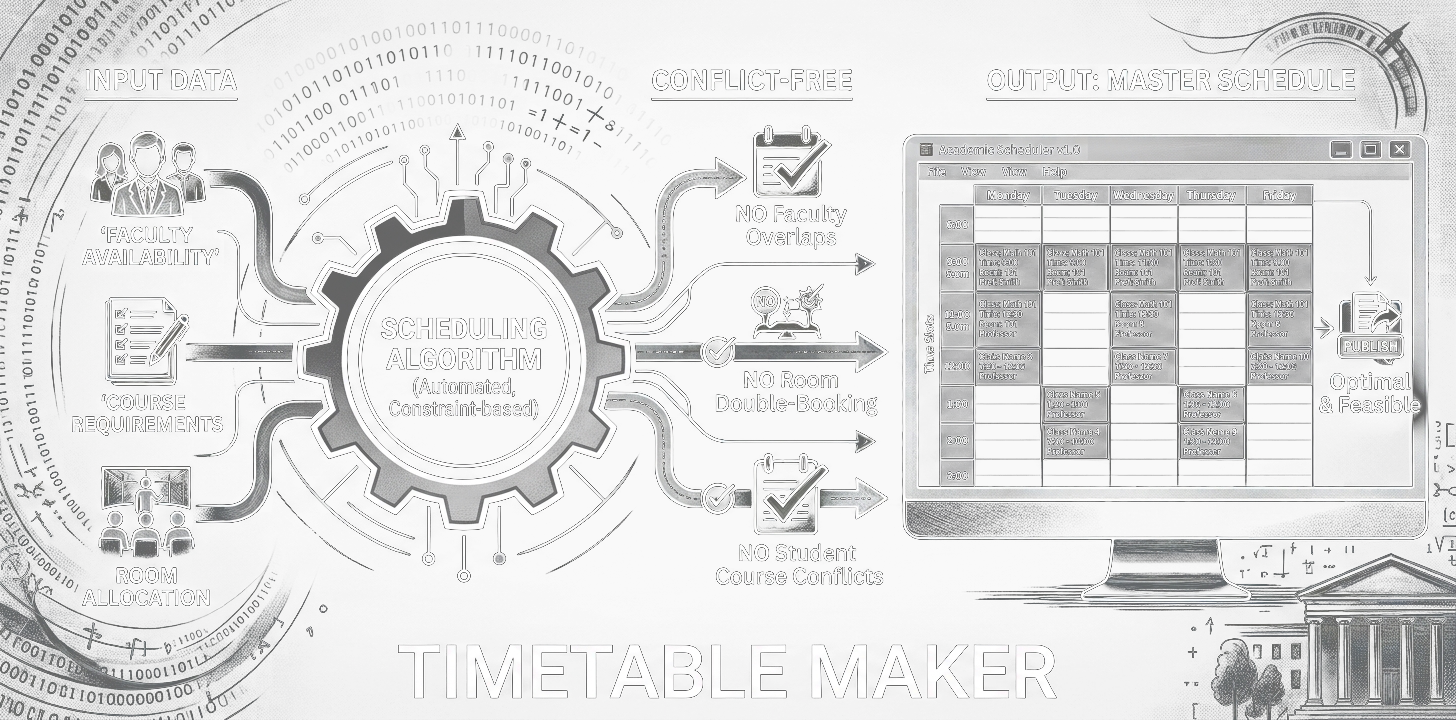
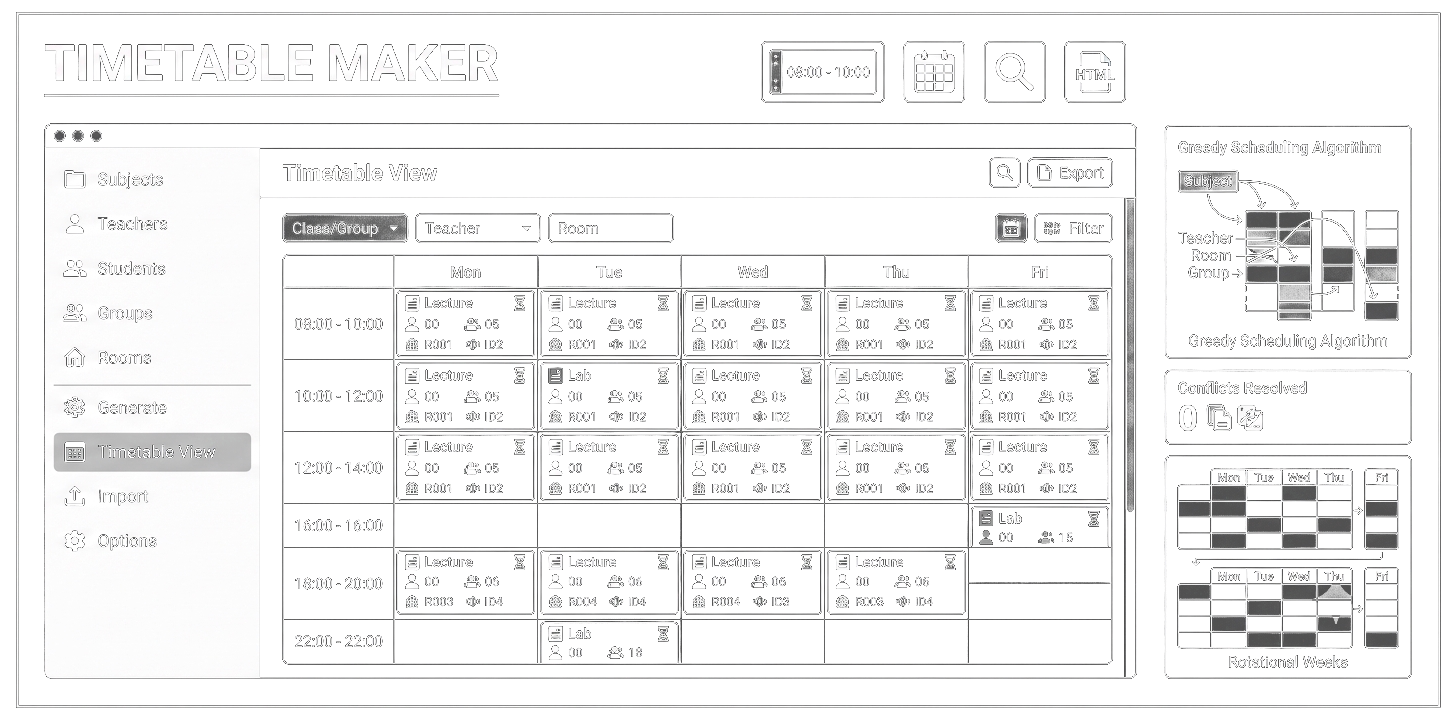
project section update

diff --git a/index.html b/index.html
@@ -642,10 +642,10 @@
         <!-- Project 7 -->
         <div class="project-card bg-card rounded-3xl overflow-hidden border border-primary/20 relative group" data-aos="fade-up" data-aos-delay="500">
           <div class="project-image-gradient gradient-a h-48 relative overflow-hidden">
-            <img src="resources/images/timetablemaker.png" alt="Protego Path" class="w-full h-full object-cover">
+            <img src="resources/images/timetablemaker.png" alt="Timetable Maker" class="w-full h-full object-cover">
           </div>
           <div class="p-6">
-            <h3 class="text-xl font-bold text-primary mb-3">Timetable-Maker</h3>
+            <h3 class="text-xl font-bold text-primary mb-3">Timetable Maker</h3>
             <p class="text-sm text-gray-300 mb-4">An automated, conflict-free academic scheduling desktop application.</p>
             <div class="flex flex-wrap gap-2">
               <span class="px-3 py-1 bg-primary/20 rounded-full text-xs">Java</span>
@@ -658,6 +658,29 @@
           </div>
           <div class="absolute bottom-4 right-4 flex gap-3 opacity-0 group-hover:opacity-100 transition-opacity duration-300">
             <a href="https://github.com/Senuka-Dinuwara/Timetable-Maker" target="_blank" class="bg-white/10 backdrop-blur-md p-3 rounded-full hover:bg-white/20 transition">
+              <i class="fab fa-github text-xl text-white"></i>
+            </a>
+          </div>
+        </div>
+
+        <!-- Project 8 -->
+        <div class="project-card bg-card rounded-3xl overflow-hidden border border-primary/20 relative group" data-aos="fade-up" data-aos-delay="500">
+          <div class="project-image-gradient gradient-b h-48 relative overflow-hidden">
+            <img src="resources/images/smartcampusapi.png" alt="SmartCampusAPI" class="w-full h-full object-cover">
+          </div>
+          <div class="p-6">
+            <h3 class="text-xl font-bold text-primary mb-3">SmartCampusAPI</h3>
+            <p class="text-sm text-gray-300 mb-4">Java EE 8/JAX-RS web API that manages campus rooms, sensors, and telemetry data via an in-memory data store.</p>
+            <div class="flex flex-wrap gap-2">
+              <span class="px-3 py-1 bg-primary/20 rounded-full text-xs">Java</span>
+            </div>
+          </div>
+          <div class="absolute top-3 right-3 flex flex-row gap-2">
+            <span class="project-badge" data-type="individual">Individual</span>
+            <span class="project-badge" data-type="completed">Completed</span>
+          </div>
+          <div class="absolute bottom-4 right-4 flex gap-3 opacity-0 group-hover:opacity-100 transition-opacity duration-300">
+            <a href="https://github.com/Senuka-Dinuwara/SmartCampusAPI" target="_blank" class="bg-white/10 backdrop-blur-md p-3 rounded-full hover:bg-white/20 transition">
               <i class="fab fa-github text-xl text-white"></i>
             </a>
           </div>

diff --git a/style.css b/style.css
@@ -206,20 +206,20 @@ html::-webkit-scrollbar-thumb:hover {
       padding: 0.45rem 0.70rem;
       border-radius: 999px;
       font-size: 0.65rem;
-      font-weight: 700;
+      font-weight: bolder;
       text-transform: capitalize;
-      backdrop-filter: blur(12px);
-      -webkit-backdrop-filter: blur(12px);
-      border: 1px solid transparent;
-      transition: transform .22s ease, background .22s ease, border-color .22s ease, color .22s ease;
+      letter-spacing: 0.01em;
+      border: 1px solid rgba(255,255,255,0.34);
+      box-shadow: 0 8px 22px rgba(2,6,23,0.34);
+      transition: transform .22s ease, background .22s ease, border-color .22s ease, color .22s ease, box-shadow .22s ease;
     }
-    .project-badge:hover { transform: translateY(-1px); }
-    .project-badge[data-type="personal"] { background: rgba(56,189,248,0.16); color: #7dd3fc; border-color: rgba(56,189,248,0.35); }
-    .project-badge[data-type="individual"] { background: rgba(249,115,22,0.16); color: #fdba74; border-color: rgba(249,115,22,0.35); }
-    .project-badge[data-type="group"] { background: rgba(168,85,247,0.16); color: #c084fc; border-color: rgba(168,85,247,0.35); }
-    .project-badge[data-type="ongoing"] { background: rgba(234,179,8,0.16); color: #fde68a; border-color: rgba(234,179,8,0.35); }
-    .project-badge[data-type="completed"] { background: rgba(16,185,129,0.16); color: #6ee7b7; border-color: rgba(16,185,129,0.35); }
-    .project-badge[data-type="onhold"] { background: rgba(244,63,94,0.16); color: #fda4af; border-color: rgba(244,63,94,0.35); }
+    .project-badge:hover { transform: translateY(-1px); box-shadow: 0 10px 26px rgba(2,6,23,0.42); }
+    .project-badge[data-type="personal"] { background: #0284c790; color: #ffffff; border-color: #7dd3fc; }
+    .project-badge[data-type="individual"] { background: #ea580c90; color: #ffffff; border-color: #fdba74; }
+    .project-badge[data-type="group"] { background: #7c3aed90; color: #ffffff; border-color: #d8b4fe; }
+    .project-badge[data-type="ongoing"] { background: #facc1590; color: #ffffff; border-color: #fef08a; }
+    .project-badge[data-type="completed"] { background: #05966890; color: #ffffff; border-color: #86efac; }
+    .project-badge[data-type="onhold"] { background: #e11d4790; color: #ffffff; border-color: #fda4af; }
 
     @keyframes blob {
       0% { transform: translate(0px, 0px) scale(1); }
